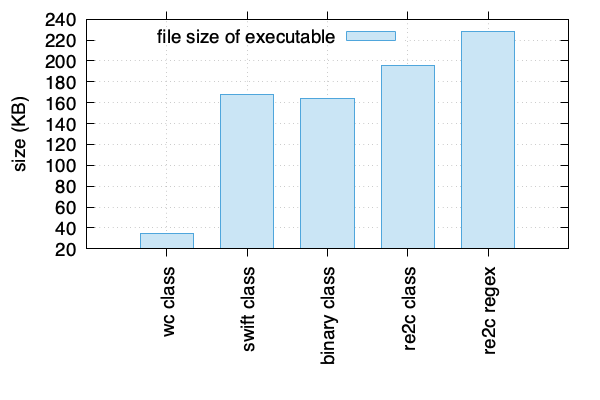
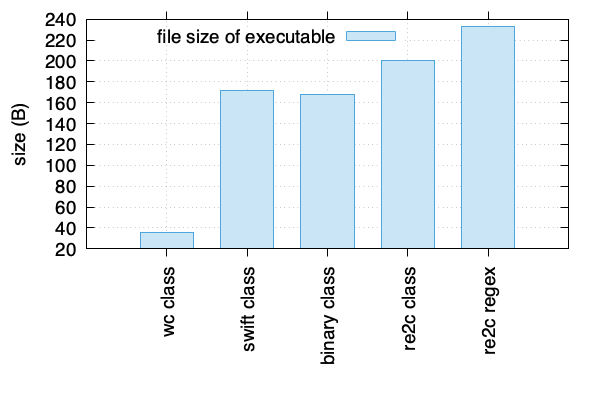
Added swift. svg names. Filesize greater granularity. Talked about nonull.

diff --git a/separate/separate/main.swift b/separate/separate/main.swift
@@ -1,0 +1,13 @@
+import Foundation
+
+var count = 0
+while let line = readLine() {
+	let split = try? NSRegularExpression(pattern: #"\w+"#)
+	/* The NSString is internally in utf-16. */
+	let matches = split!.matches(in: line, range: NSRange(location: 0, length: line.utf16.count))
+	count += matches.count
+	/*for match in matches {
+		print((line as NSString).substring(with: match.range))
+	}*/
+}
+print("Count", count)

diff --git a/readme.md b/readme.md
@@ -37,7 +37,7 @@ The word counts agree except `wc`. From what limited knowledge I have of Korean,
 
 I concatenated all 65 versions of the Bible in different languages. I would have been interested to see what word count the `swift` programme gave, but it spectacularly balked. The expanded regex only merges a few thousandth's of words together in this source. The `re2c` and `wc` have similar run-times.
 
-The `re2c` strategy of breaking a code-point up into bytes causes a huge amount of state fragmentation. On the other hand, I think of `binary` as being `O(log n)`, but with a fixed and small `n`, I was curious to see whether taking in whole code-points and doing a binary search would be that much slower. It's about twice as slow, in this case. I didn't do any obvious optimizations, but it's quite clear that `re2c` is going to be hard to beat.
+The `re2c` strategy of breaking a code-point up into bytes causes a huge amount of state fragmentation. On the other hand, I think of `binary` as being `O(log n)`, but with a fixed and small `n`, I was curious to see whether taking in whole code-points and doing a binary search would be that much slower. It's about twice as slow, in this case. I optimized this by skipping the nul-check on non-words and having two tables, but it didn't make much difference, so I took that complication out.
 
 ![Executable file size.](filesizes.svg)
 
